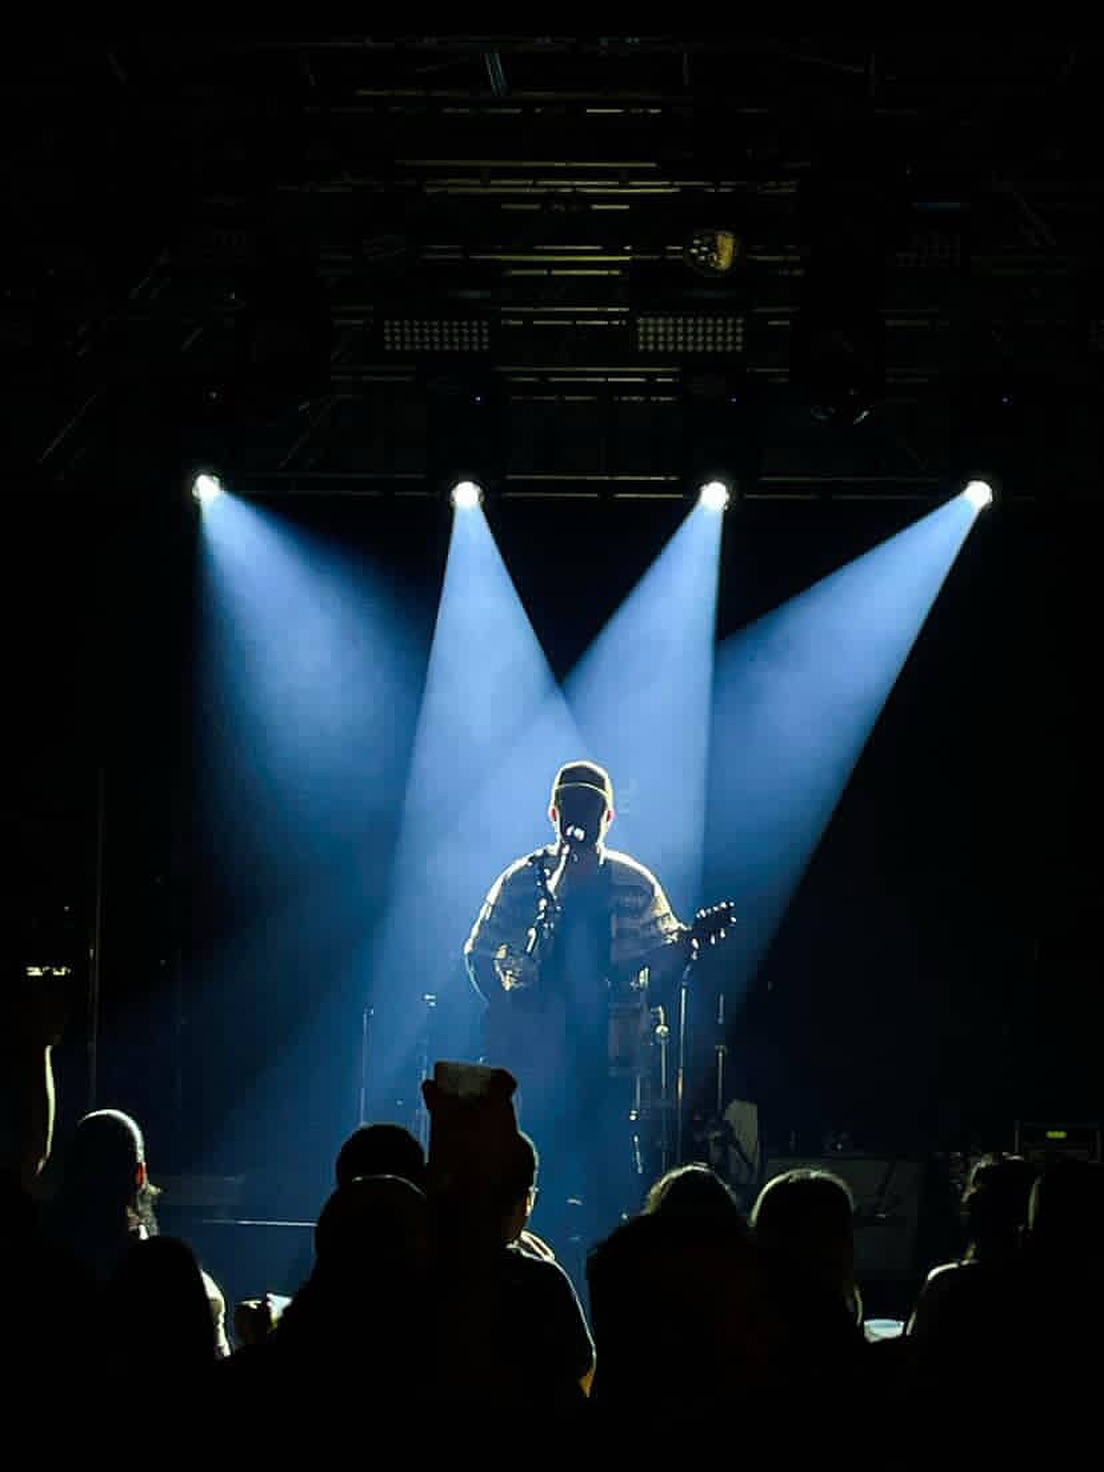
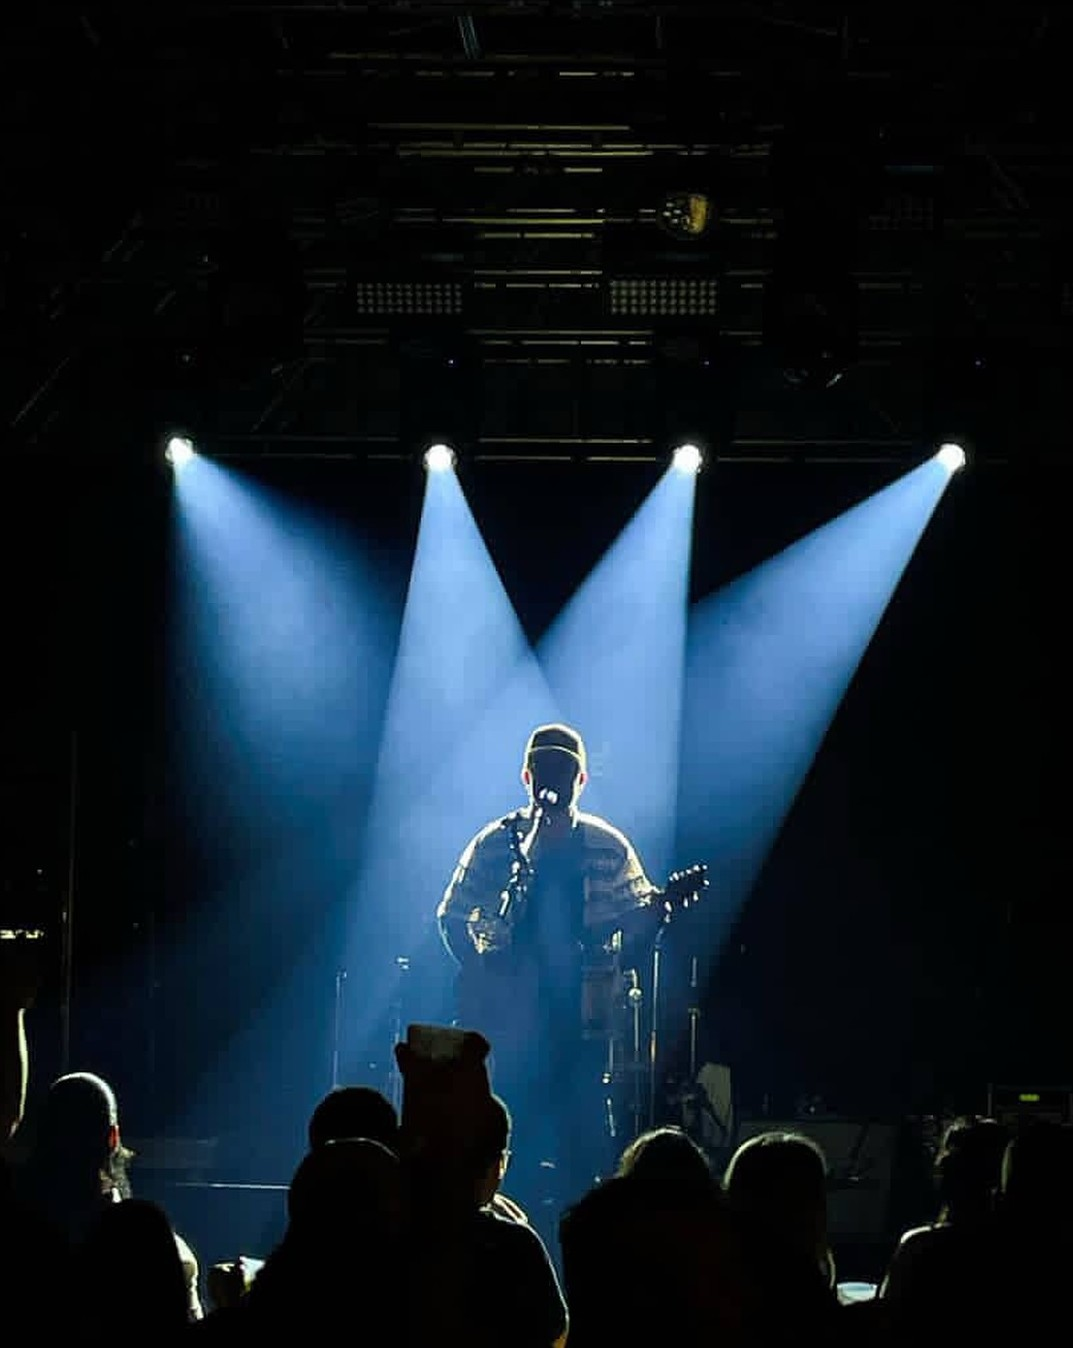
Sobre: foto principal #5, #6 na galeria, apara borda da #6 e remove borda CSS das fotos

diff --git a/index.html b/index.html
@@ -172,7 +172,7 @@
         <div class="sobre-photo reveal">
           <img
             id="sobrePhoto"
-            src="assets/img/sobre6.jpg"
+            src="assets/img/sobre5.jpg"
             alt="Teto Fernandes e Banda ao vivo"
             loading="lazy" />
         </div>

diff --git a/script.js b/script.js
@@ -17,7 +17,7 @@ const GALLERY_IMAGES = [
   "assets/img/sobre2.jpg",
   "assets/img/sobre3.jpg",
   "assets/img/sobre4.jpg",
-  "assets/img/sobre5.jpg",
+  "assets/img/sobre6.jpg",
   "assets/img/sobre7.jpg",
 ];
 

diff --git a/styles.css b/styles.css
@@ -327,7 +327,6 @@ h1, h2, h3 {
   width: 100%;
   aspect-ratio: 4 / 5;
   object-fit: cover;
-  border: 1px solid var(--line);
 }
 .gallery {
   display: grid;
@@ -339,7 +338,6 @@ h1, h2, h3 {
   aspect-ratio: 1 / 1;
   object-fit: cover;
   border-radius: 12px;
-  border: 1px solid var(--line);
   transition: transform 0.25s ease, filter 0.25s ease;
   filter: grayscale(0.2);
 }